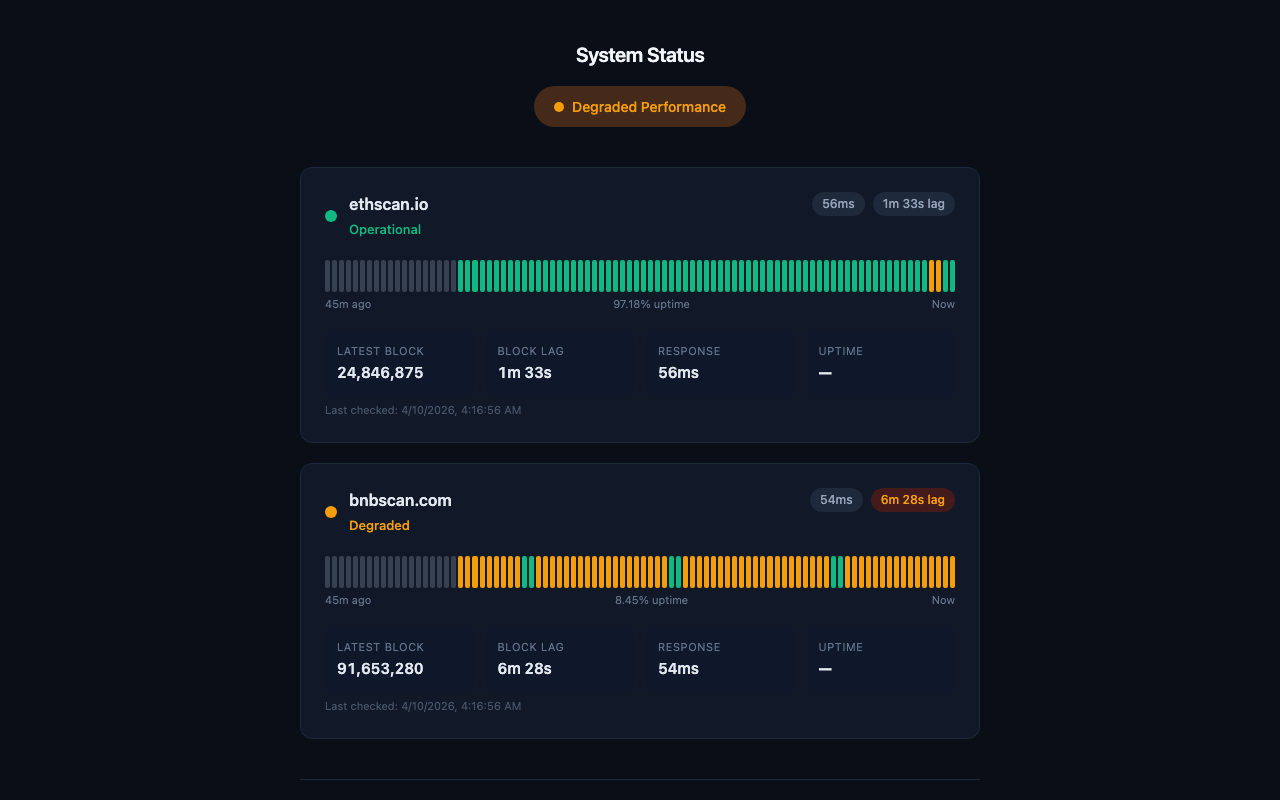
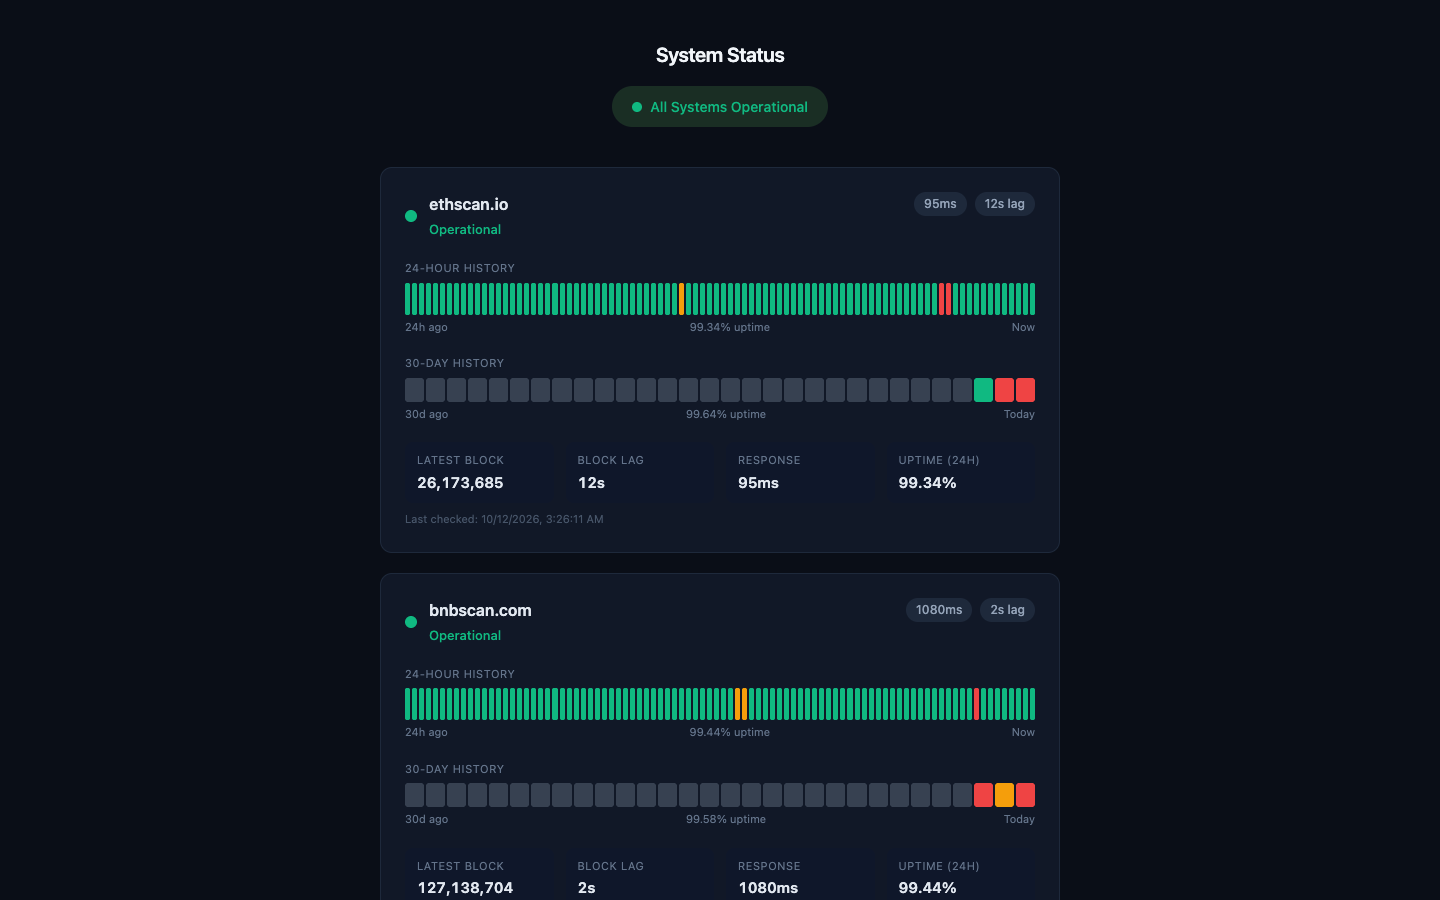
docs: retake the screenshots and correct the README and self-hosting guide against the code (#234)
* docs: retake the screenshots and correct the README and self-hosting guide against the code

The screenshots dated from April: the pre-redesign UI, data 711 days stale, and a
status page reading "Degraded". They are retaken from production: both chains,
light and dark, desktop and phone, with the sponsored slots switched off.

Every claim in the README, CONTRIBUTING and the self-hosting guide was checked
against the code. Corrected, among others: holder counts (a frozen snapshot, not
recomputed every 15 minutes), the watchlist (browser-only, no alerts), DEX
coverage (V2-style swaps only), "bot detection disabled" (it is on), a GoPlus key
nothing reads, what retention deletes and what bounds the database, what the
manual prune endpoint deletes, the drpc batch limit, the token_transfers
partitioning claim, the ABANDONING log line, and the Render steps for Ethereum.
The guide now lists what a public fork must change (analytics ID, domain,
referral code, peer URL).

docker-compose.yml now forwards DB_DISK_GB and COMPACT_RETENTION_DAYS. Without
DB_DISK_GB the disk alarm and action thresholds the file already set could never
fire. Both default to empty, which the indexer reads as unset.

Also: CONTRIBUTING and AGENTS.md list all 13 Postgres suites, SECURITY.md's scope
covers the admin console and status page, and the CHANGELOG records the 69
commits since 0.3.0.0.

* docs: compact retention bounds block history, not the database — addresses is never pruned

---------

diff --git a/docs/SELF_HOSTING.md b/docs/SELF_HOSTING.md
@@ -16,7 +16,13 @@ explorer. First build takes several minutes; after that, startup is seconds.
 
 Every value in `.env` has a working default, so `docker compose up` runs unedited. You
 will want to change at least the RPC endpoint and the Postgres password before running
-this anywhere other than your laptop.
+this anywhere other than your laptop. Set the password before the first `up`: Postgres
+reads it only when it creates the data volume. The stack also publishes Postgres on port
+5432 so you can inspect it with `psql`; remove that port mapping on a shared host.
+
+Compose passes the containers only the variables listed in
+[`docker-compose.yml`](../docker-compose.yml). To set any other variable this guide
+mentions, add it to that service's `environment:` block.
 
 ```bash
 docker compose logs -f indexer     # watch it catch up to the chain head
@@ -51,7 +57,8 @@ changed `CHAIN` but no rebuild gives you a server reading one chain's data while
 browser renders the other chain's currency symbol and theme.
 
 One compose stack runs one chain. To run both, use two clones with different
-`EXPLORER_PORT` and `POSTGRES_PORT` values, or two Render blueprints.
+`EXPLORER_PORT`, `POSTGRES_PORT` and `COMPOSE_PROJECT_NAME` values (the project name keeps
+their containers and data volumes apart), or two Render blueprints.
 
 ## Where indexing starts
 
@@ -85,7 +92,8 @@ With `MORALIS_API_KEY` set ([moralis.io](https://moralis.io), free tier availabl
 are served from the provider and cached, giving full history beyond your retention
 window. Per-feature rate caps keep one feature from exhausting the quota of another —
 see the `MORALIS_*` variables in
-[`apps/explorer/.env.example`](../apps/explorer/.env.example).
+[`apps/explorer/.env.example`](../apps/explorer/.env.example). The Docker stack forwards
+only `MORALIS_API_KEY`; add the caps to the explorer's `environment:` block to change them.
 
 This is the one place Altscan depends on a third-party commercial service. Everything
 else runs from your own node/RPC and your own database.
@@ -93,16 +101,33 @@ else runs from your own node/RPC and your own database.
 ## Retention and disk
 
 ```bash
-RETENTION_DAYS=7    # default
+RETENTION_DAYS=7            # default
+COMPACT_RETENTION_DAYS=     # default: unset, keep forever
+DB_DISK_GB=                 # default: unset, disk checks off
 ```
 
-Transaction bodies older than this are pruned; the transactions themselves remain
-queryable, and bodies are refetched on demand. BNB Chain writes roughly **12–15 GB per
-month** at full retention, Ethereum roughly **6–8 GB**. Check free disk before raising
-this.
+The indexer runs a retention pass 15 minutes after it starts and every 6 hours after that.
 
-The indexer logs table sizes and disk usage on each retention pass. Set `DB_DISK_GB` to
-your actual disk size to get a warning at 70% capacity.
+- **Past `RETENTION_DAYS`** it deletes logs, DEX trades and gas history, and drops each
+  transaction's input data. The transactions stay queryable, and their input is refetched
+  from RPC when a page needs it.
+- **Past `COMPACT_RETENTION_DAYS`** it deletes the transactions, token transfers, internal
+  transactions and blocks themselves. Unset, these are kept forever, so this is the setting
+  that bounds block history. Setting it to `RETENTION_DAYS` or lower is the cheap choice:
+  old transactions are then deleted outright, without first rewriting each one to drop its
+  input, a rewrite that takes hours on a busy chain like BNB.
+- **Never pruned:** `addresses`, `tokens`, `token_balances` and `contracts`. `addresses`
+  gains a row for every new address the chain touches, so the database keeps growing
+  slowly even with both windows set. Leave headroom for it.
+
+As a guide, BNB Chain writes roughly **12–15 GB per month** and Ethereum roughly
+**6–8 GB**. Check free disk before you lengthen either window.
+
+The indexer logs table sizes on each pass. With `DB_DISK_GB` set to your disk's size it
+also logs disk use, warns at 70%, raises an alarm at `EMERGENCY_DISK_ALARM_PCT` (default
+85), and at `EMERGENCY_DISK_ACT_PCT` (default 93) tightens retention and deletes older
+data to keep the disk from filling. Without `DB_DISK_GB` none of these checks run. The
+figure is the database's own size, so it reads a few points under what `df` reports.
 
 ## Deploying on Render
 
@@ -114,7 +139,11 @@ cp deploy/render/blueprint.yaml render.yaml
 ```
 
 Commit that to your fork, then in Render: **New → Blueprint → select your fork**. Set
-the RPC URL and `START_BLOCK` when prompted.
+the RPC URL and `START_BLOCK` when prompted. `START_BLOCK` must be a block number here;
+`tip` is resolved only by the Docker entrypoint.
+
+For Ethereum, set `CHAIN` and `NEXT_PUBLIC_CHAIN` to `eth`, and on **both** services
+rename `DATABASE_URL` to `ETH_DATABASE_URL` and `BNB_RPC_URL` to `ETH_RPC_URL`.
 
 The root [`render.yaml`](../render.yaml) is the production two-chain configuration for
 bnbscan.com and ethscan.io — it provisions two databases and paid plans, so don't deploy
@@ -135,9 +164,11 @@ Note the `--build-arg` on the explorer — see [Choosing a chain](#choosing-a-ch
 
 ## Database
 
-There is no migration step. The indexer creates and updates its own schema on boot via
-[`ensure-schema.ts`](../apps/indexer/src/ensure-schema.ts), including the partitioned
-`token_transfers` table. Point it at an empty database and it will do the rest.
+There is no migration step. The indexer creates and updates its own tables and indexes on
+boot via [`ensure-schema.ts`](../apps/indexer/src/ensure-schema.ts). Point it at an empty
+database and it will do the rest. `token_transfers` starts as a plain table; partitioning
+it by block number, which makes retention a cheap partition drop, is an optional one-time
+migration (`apps/indexer/src/migrate-partition-tt.ts`, run with the indexer stopped).
 
 ```bash
 docker compose exec postgres psql -U altscan -d altscan
@@ -146,7 +177,7 @@ docker compose exec postgres psql -U altscan -d altscan
 ## Troubleshooting
 
 **The homepage looks empty on first load, but `/blocks` has data.**
-Expected. The homepage is cached with a 30-second ISR window and ships prerendered
+Expected. The homepage is cached with a 60-second ISR window and ships prerendered
 against an empty database. The first request after that window serves the stale copy and
 triggers regeneration in the background; the next one shows live data. Reload once.
 
@@ -155,10 +186,10 @@ The default RPC endpoints are free public nodes and will throttle a catching-up 
 Failed blocks are retried, so it self-corrects, but throughput suffers. Lower
 `INDEX_CONCURRENCY`, or use a dedicated provider endpoint.
 
-**The indexer says `N blocks behind — skipping to block X`.**
-Normal when it falls more than 1000 blocks behind: it jumps forward to stay near the head
-rather than grinding through the gap. Lower `START_BLOCK_LOOKBACK` or raise
-`INDEX_CONCURRENCY` if you want the gap filled.
+**The indexer says `N blocks behind (>1000) — ABANDONING blocks A..B`.**
+It fell more than `MAX_LAG_BLOCKS` (default 1000) behind the head and skipped that range
+to stay current. The skipped blocks are recorded as a gap in `/api/health` but are not
+filled in later. To avoid it, use a faster RPC endpoint or raise `INDEX_CONCURRENCY`.
 
 **Wrong currency symbol or theme after switching chains.**
 You restarted without rebuilding. Run `docker compose up -d --build` — see
@@ -167,7 +198,7 @@ You restarted without rebuilding. Run `docker compose up -d --build` — see
 ```bash
 docker compose logs -f indexer     # indexing progress and errors
 docker compose logs -f explorer    # request-level errors
-docker compose ps                  # health status of all four services
+docker compose ps                  # state of each service; Postgres, Redis and the explorer report health
 ```
 
 ## Limitations
@@ -178,9 +209,26 @@ Worth knowing before you commit to this:
   provider backfill for older address/token history. It is not a full archive node
   explorer.
 - **One chain per stack**, for the build-time reason above.
-- **Contract verification** is via Sourcify only.
+- **Contract verification** is via Sourcify only. The explorer shows whether a contract
+  is verified there; source is submitted at [sourcify.dev](https://sourcify.dev).
 - **Two chains supported** today (BNB, Ethereum). Adding a third currently requires code
   changes, not configuration.
+
+## Before you run a public fork
+
+A fork serves the hosted sites' identity until you change it. These live in each chain's
+entry in [`packages/chain-config/src/index.ts`](../packages/chain-config/src/index.ts):
+
+- **`gaTrackingId`** — the Google Analytics property every page reports to.
+- **`domain`** — used for canonical URLs, the sitemap, `robots.txt`, structured data, and
+  the API's allowed CORS origin.
+- **`binanceRefCode`** — the referral code on the sponsored Binance placements, which run
+  by default. Each placement can be switched off in the `ads` runtime setting, a row in
+  the `explorer_settings` table that the admin console (`apps/admin`) edits.
+- **`peerUrl`** — where the network switcher sends visitors for the other chain.
+
+The status page (`apps/status`) monitors bnbscan.com and ethscan.io; its targets are set
+in `apps/status/src/server.ts`.
 
 ## Licence
 

diff --git a/CHANGELOG.md b/CHANGELOG.md
@@ -6,11 +6,36 @@ The format is based on [Keep a Changelog](https://keepachangelog.com/en/1.1.0/),
 
 ## [Unreleased]
 
+### Added
+- **Lookalike-token labels.** Tokens whose name or symbol imitates a real one (homoglyphs from any Unicode script, a name equal to a known symbol, embedded URLs) carry a badge on `/token`, the token page, and search results, and never headline a page (#196, #206, #215, #221, #229, #233).
+- **Token-metadata healer.** Tokens stored as `Unknown` / `???` after a rate-limited first fetch are retried in the background until they resolve (#190, #199, #203).
+- Indexes for exact-match token search and whale-size transfers (#224).
+
 ### Changed
-- **altscan.io rebuilt around live block tapes.** Two tapes replay the blocks BNBScan and EthScan are indexing (width = block time, fill = gas used). One real block is taken apart, and both explorer panels carry their own mini tape. The page closes with a tape of the codebase itself, measured at build time (width = lines of TypeScript, fill = share that is tests). `/api/chains.json` now serves each explorer's recent blocks behind a 12-second edge cache (#172, #174, #176, #177).
+- **Explorer redesign ("Ledger Tape").** Every route moved onto one design system. A live block tape (width = transactions, fill = gas used) runs through the homepage, `/blocks`, `/txs`, block, transaction, address, token, `/gas`, `/validators`, `/dex` and `/charts`. Transaction pages lead with a decoded one-line summary, and address pages lead with their holdings and draw their transactions as a ledger. Dark mode follows the system setting (#182, #184–#189, #192, #211–#215, #227, #230).
+- **Search accepts the site's own formats** — `#1,234`, comma-grouped numbers, `0X` prefixes, and bare hex. Exact matches always appear, real tokens rank above lookalikes, a single match redirects straight to its page, and the header search suggests as you type (#204, #218, #219, #225).
+- **altscan.io rebuilt around live block tapes.** Two tapes replay the blocks BNBScan and EthScan are indexing (width = block time, fill = gas used). One real block is taken apart, and both explorer panels carry their own mini tape. The page closes with a tape of the codebase itself, measured at build time (width = lines of TypeScript, fill = share that is tests). `/api/chains.json` now serves each explorer's recent blocks behind a 12-second edge cache (#172, #174, #176–#178).
+- Ad space is reserved on the server, so an ad no longer pushes the page down when it loads (#187, #193).
+- altscan.io and the admin console moved from Astro 5 to Astro 7 (#180), and CI now typechecks the admin console (#183).
+
+### Fixed
+- **Contract verification works again.** It used Sourcify's removed v1 API and BNB's chain id on both chains; it now uses Sourcify v2 and the configured chain, and records the compiler version Sourcify reports rather than the one the request claimed (#202, #208).
+- **Pages state only what is true.** `/gas` separates base fee from gas price and derives its tiers from real percentiles; BNB's block time is the measured 0.45 s; `/dex`, `/validators`, `/staking`, About and `/charts` no longer show estimates or placeholders as facts; address and token pages agree on holdings and holder counts (#181, #189, #194, #220, #228, #229).
+- **Consistent number formats** — grouped counts, one compact format, dust shown as `<0.000001`, and one native-price source on every page (#222, #232).
+- **Public API rate limits key on the visitor**, not on the Cloudflare edge that forwarded the request; the counter and its expiry are set atomically, webhook reads and deletes are limited, and `/verify` has its own budget (#195, #200, #201).
+- Token pages render in milliseconds instead of ~7 s, and their holder and transfer lists no longer scan whole tables or shift the page (#150, #207, #209, #210).
+- List-page caches never serve data older than their TTL; ETH `/blocks` could show blocks 27 minutes old (#223).
+- `/whales` finds the period's largest transfers through the whale-size index and ranks them by USD value (#222, #226). BNB `/charts` plots whole hours (#231).
+- Phone layouts: address and token tables stack instead of scrolling sideways (#231).
+- Accessibility: keyboard navigation in the More menu, 3:1 popover borders, and the block tape, gas bar and status dots survive forced-colours mode (#197, #205).
+- ETH can catch up on drpc's free plan: JSON-RPC batch size is capped per chain (#169).
+- The indexer's boot-time schema check retries on more connection-loss shapes instead of crash-looping (#164–#166).
+- AhrefsBot is blocked in `robots.txt` and throttled on heavy paths (#167).
+- **Self-hosting:** the Docker stack now passes `DB_DISK_GB` and `COMPACT_RETENTION_DAYS` to the indexer, so the disk alarm and action thresholds it already set can fire, and block history can be bounded from `.env`. The README and self-hosting guide were checked against the code and corrected, and the screenshots retaken.
 
 ### Security
 - **Upgraded drizzle-orm to 0.45.2** (drizzle-kit to 0.31.10), clearing the "SQL injection via improperly escaped SQL identifiers" advisory. Nothing here calls `sql.identifier()`, so it was not reachable. Since 0.44, drizzle wraps every database error in one that carries the SQL, not the reason. The deadlock retries, the indexer's boot-time database retry, and every log line and response that reports a database error now read the underlying Postgres error.
+- Cleared the dependency security backlog (#179), plus routine dependency updates (#216, #217).
 
 ## [0.3.0.0] - 2026-09-18
 

diff --git a/CONTRIBUTING.md b/CONTRIBUTING.md
@@ -4,7 +4,7 @@ Thanks for your interest in **Altscan** — the open-source, multi-chain block e
 
 ## Prerequisites
 
-- **Node.js 22** — what CI, the Docker images, and the hosted explorers run.
+- **Node.js 22** — what CI and the Docker images run.
 - **pnpm 10** — the exact version is pinned in `package.json` (`packageManager`);
   `corepack enable` picks it up.
 - **PostgreSQL 16**. The quickest way to get it is `docker compose up -d postgres` from
@@ -22,7 +22,9 @@ cp apps/explorer/.env.example apps/explorer/.env.local   # fill in RPC + DB URLs
 CHAIN=bnb NEXT_PUBLIC_CHAIN=bnb pnpm --filter @altscan/explorer dev
 ```
 
-The BNB explorer runs at `http://localhost:3000`. `pnpm dev` starts every app at once
+The BNB explorer runs at `http://localhost:3000`. The indexer creates the database
+schema on its first boot, so run it once against a new database before expecting pages
+to show data. `pnpm dev` starts every app at once
 (explorer, indexer, status page, and both Astro sites).
 
 ## The `CHAIN` model
@@ -56,8 +58,9 @@ Run what CI runs:
 ```bash
 pnpm test                               # Vitest, every workspace
 pnpm lint
-pnpm --filter @altscan/explorer build   # production build of the explorer
+pnpm --filter @altscan/explorer build   # production build; needs DATABASE_URL set (any well-formed URL)
 pnpm --filter @altscan/site test        # only if you touched apps/altscan-site
+pnpm --filter @altscan/admin exec tsc --noEmit -p .   # only if you touched apps/admin
 ```
 
 If you touched the indexer or a package it imports, typecheck it the way CI does. The
@@ -74,7 +77,8 @@ root; `apps/altscan-site` has its own harness and is excluded from the root run.
 
 A bare `pnpm test` **skips** these suites. Each runs only when its variable is set. The
 Postgres suites refuse to run unless the database name contains `test`, because they
-create and drop tables with production names.
+create and drop tables with production names (`retention-sizes` works in a private
+schema instead).
 
 | Suite | Variable |
 |---|---|
@@ -84,6 +88,12 @@ create and drop tables with production names.
 | `apps/indexer/src/retention-boundary-partition.pg.test.ts` | `BOUNDARY_TEST_PG_URL` |
 | `apps/explorer/lib/backfill-serve.pg.test.ts` | `BACKFILL_TEST_PG_URL` (use a separate database from the indexer worker suite) |
 | `apps/explorer/lib/address-query.pg.test.ts` | `ADDRESS_QUERY_TEST_PG_URL` |
+| `apps/explorer/lib/token-transfers-query.pg.test.ts` | `TOKEN_TRANSFERS_TEST_PG_URL` |
+| `apps/explorer/lib/token-suggest.pg.test.ts` | `TOKEN_SUGGEST_TEST_PG_URL` |
+| `apps/explorer/lib/whales.pg.test.ts` | `WHALES_TEST_PG_URL` |
+| `apps/explorer/lib/gas-percentiles.pg.test.ts` | `GAS_TIERS_TEST_PG_URL` |
+| `apps/indexer/src/token-heal.pg.test.ts` | `TOKEN_HEAL_TEST_PG_URL` |
+| `apps/indexer/src/tt-whale-index.pg.test.ts` | `TT_WHALE_INDEX_TEST_PG_URL` (needs a database of its own) |
 | `packages/db/client.pg.test.ts` | `DB_CLIENT_TEST_PG_URL` |
 | `packages/providers/src/moralis-cu-budget.redis.test.ts` | `MORALIS_TEST_REDIS_URL` (changes server config — use a throwaway Redis only) |
 

diff --git a/AGENTS.md b/AGENTS.md
@@ -27,7 +27,7 @@ pnpm test    # vitest run (root config, all workspaces)
 ## Testing gotchas
 
 - **PG-gated suites are silently SKIPPED by a bare `pnpm test`.** Each is gated on its own
-  env var, and CI runs only nine of the eleven by name:
+  env var, and CI runs eleven of the thirteen by name:
   | Suite | Gate | In CI? |
   |---|---|---|
   | `apps/indexer/src/backfill-worker.pg.test.ts` | `BACKFILL_TEST_PG_URL` | yes |
@@ -39,6 +39,8 @@ pnpm test    # vitest run (root config, all workspaces)
   | `apps/indexer/src/tt-whale-index.pg.test.ts` | `TT_WHALE_INDEX_TEST_PG_URL` | yes (own DB, `whale_idx_test`) |
   | `apps/explorer/lib/token-suggest.pg.test.ts` | `TOKEN_SUGGEST_TEST_PG_URL` | yes |
   | `apps/explorer/lib/whales.pg.test.ts` | `WHALES_TEST_PG_URL` | yes |
+  | `apps/explorer/lib/token-transfers-query.pg.test.ts` | `TOKEN_TRANSFERS_TEST_PG_URL` | yes |
+  | `apps/explorer/lib/gas-percentiles.pg.test.ts` | `GAS_TIERS_TEST_PG_URL` | yes |
   | `apps/indexer/src/retention-partition-drop.pg.test.ts` | `BACKFILL_TEST_PG_URL` | **no** |
   | `apps/indexer/src/retention-boundary-partition.pg.test.ts` | `BOUNDARY_TEST_PG_URL` | **no** |
   The last two run nowhere unless you run them by hand — do that before touching retention.

diff --git a/SECURITY.md b/SECURITY.md
@@ -34,7 +34,7 @@ Please include:
 
 ## Scope
 
-**In scope:** the explorer app (`apps/explorer`), the indexer (`apps/indexer`), the public REST API, and the `altscan-site` umbrella site in this repository.
+**In scope:** everything in this repository — the explorer (`apps/explorer`) with its public REST API and `/api/admin/*` endpoints, the indexer (`apps/indexer`), the admin console (`apps/admin`), the status page (`apps/status`), the altscan.io site (`apps/altscan-site`), and the shared `packages/*`.
 
 **Out of scope:** findings that require physical access or social engineering; volumetric denial-of-service; and vulnerabilities in third-party providers (RPC nodes, Moralis, Cloudflare, Render) — please report those to the respective vendor.
 

diff --git a/LICENSING.md b/LICENSING.md
@@ -36,7 +36,7 @@ In practice that means:
 - You need warranty, indemnity, or a support SLA that AGPL explicitly disclaims.
 
 Commercial licensing removes the source-disclosure obligation and is negotiated per
-deployment. To enquire, email the contact in [SECURITY.md](SECURITY.md).
+deployment. To enquire, email [bnbscan@mdt.io](mailto:bnbscan@mdt.io).
 
 ## How this compares
 

diff --git a/.github/PULL_REQUEST_TEMPLATE.md b/.github/PULL_REQUEST_TEMPLATE.md
@@ -20,6 +20,7 @@
 - [ ] Indexer (`apps/indexer`)
 - [ ] Public REST API
 - [ ] altscan.io site (`apps/altscan-site`)
+- [ ] Admin console (`apps/admin`) or status page (`apps/status`)
 - [ ] Shared packages
 - [ ] Both chains (BNB + ETH)
 
